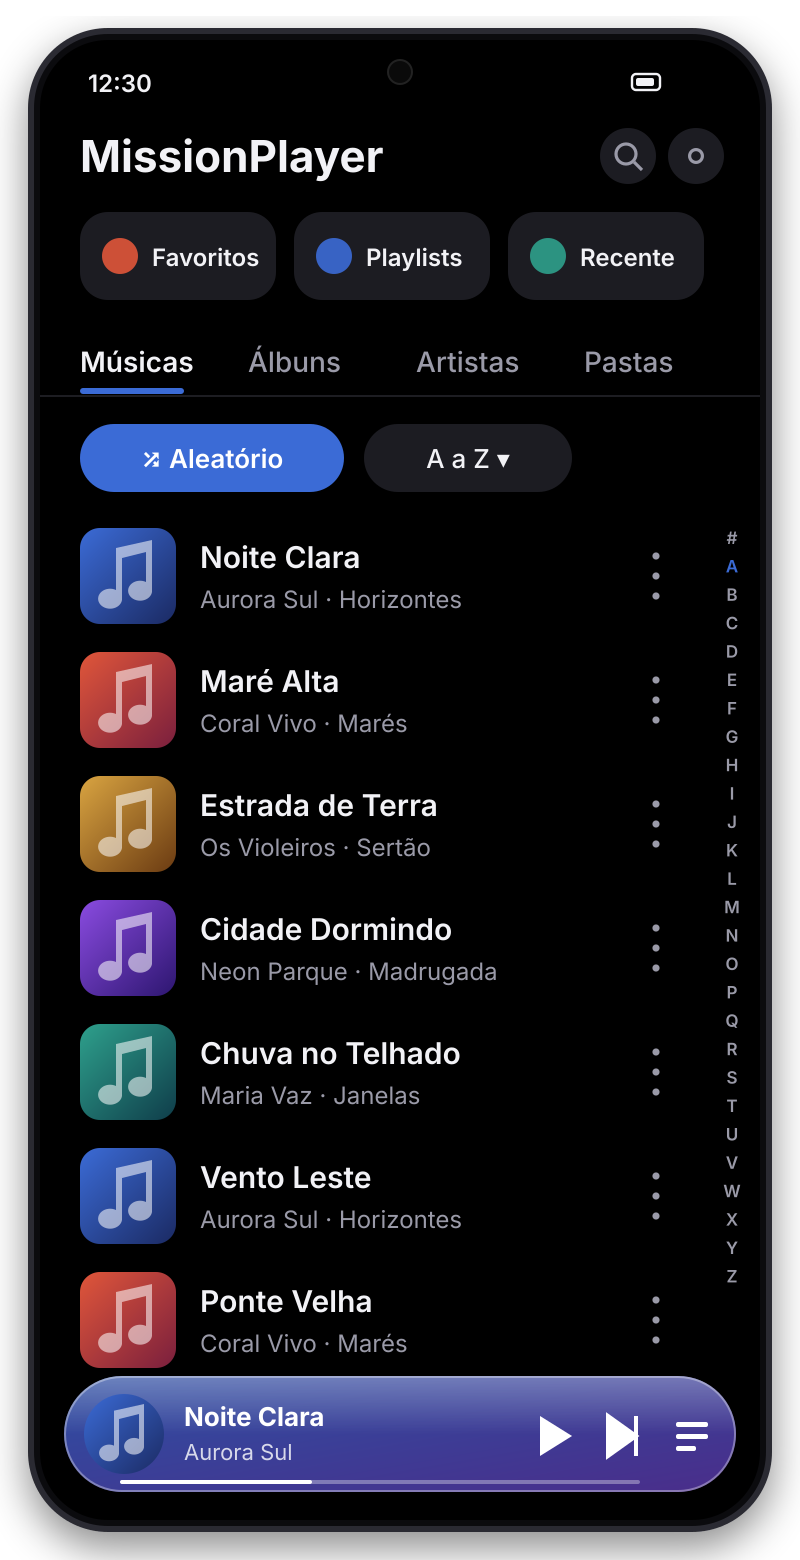
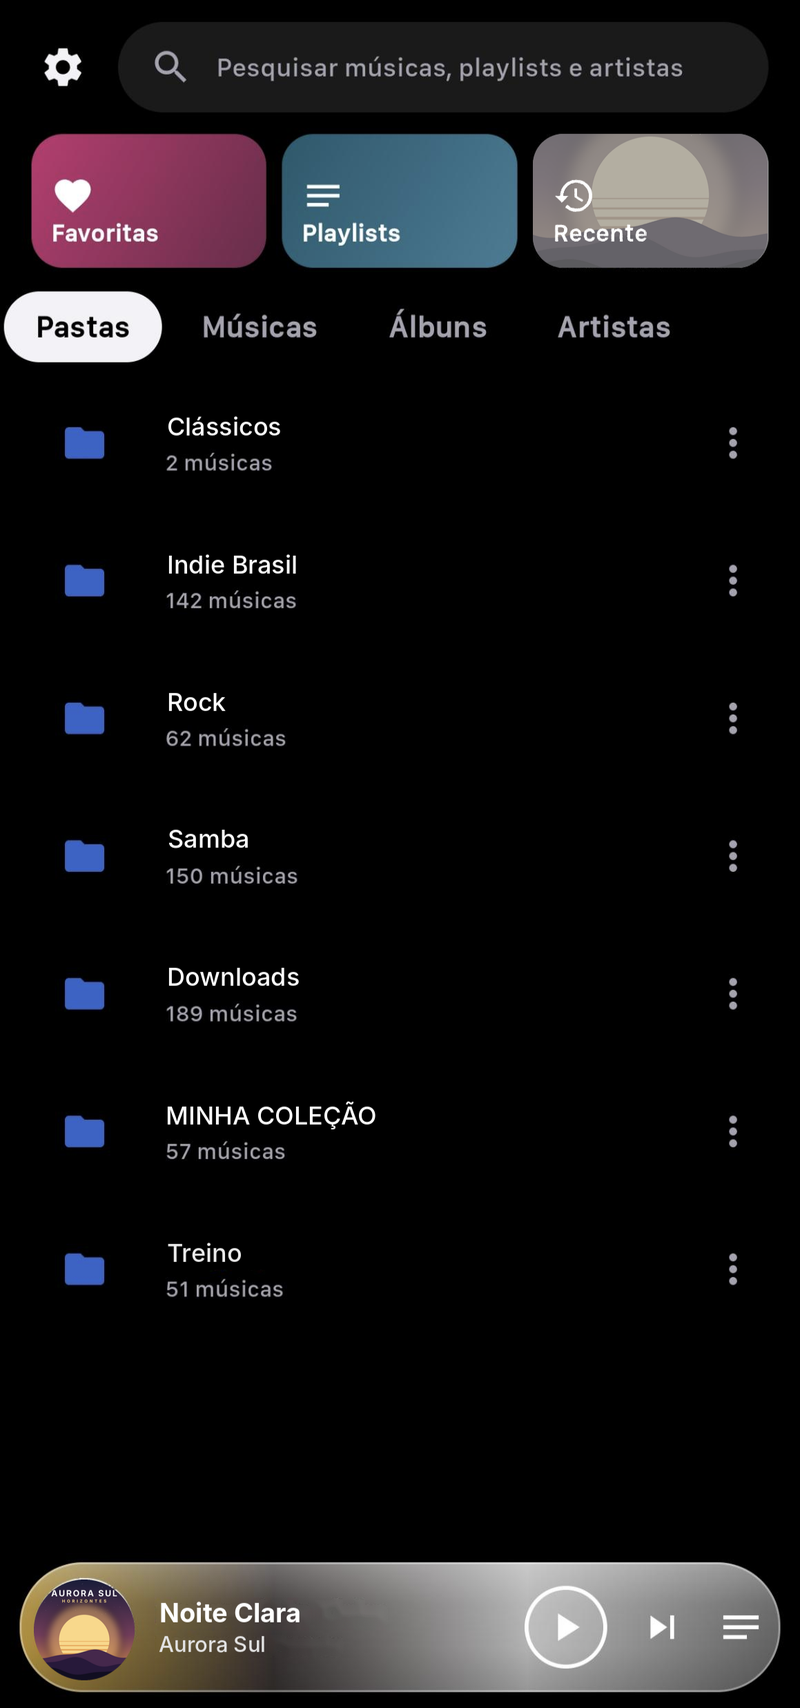
docs: troca as telas do README pelas capturas editadas [skip ci]
Substitui biblioteca, player e editor pelas capturas do app (nomes e capa
fictícios), refaz a faixa telas.png e ajusta a nota do README. O banner
foi mantido.

Claude-Session: https://claude.ai/code/session_01HBMELjAF7qRgkxFB4U4vf1

diff --git a/README.md b/README.md
@@ -12,8 +12,8 @@ personalização.
   <img src="docs/images/telas.png" alt="Biblioteca, tela Tocando agora e editor de metadados" width="90%">
 </p>
 
-> As imagens deste README são **ilustrações** do visual do app (nomes de músicas e capas são fictícios);
-> os ícones da seção *Ícones do app* são os arquivos reais do projeto.
+> As telas de biblioteca, player e editor são capturas do app com nomes de músicas, pastas e capa fictícios;
+> as de letra sincronizada e temas são ilustrações. Os ícones da seção *Ícones do app* são os arquivos reais do projeto.
 
 > Projeto original: nenhum código, recurso, texto, ícone ou marca de outro app foi copiado.
 > Pacote: `com.missionbreak56.musicplayer` · Repositório: https://github.com/MissionBreak56/MissionPlayer
